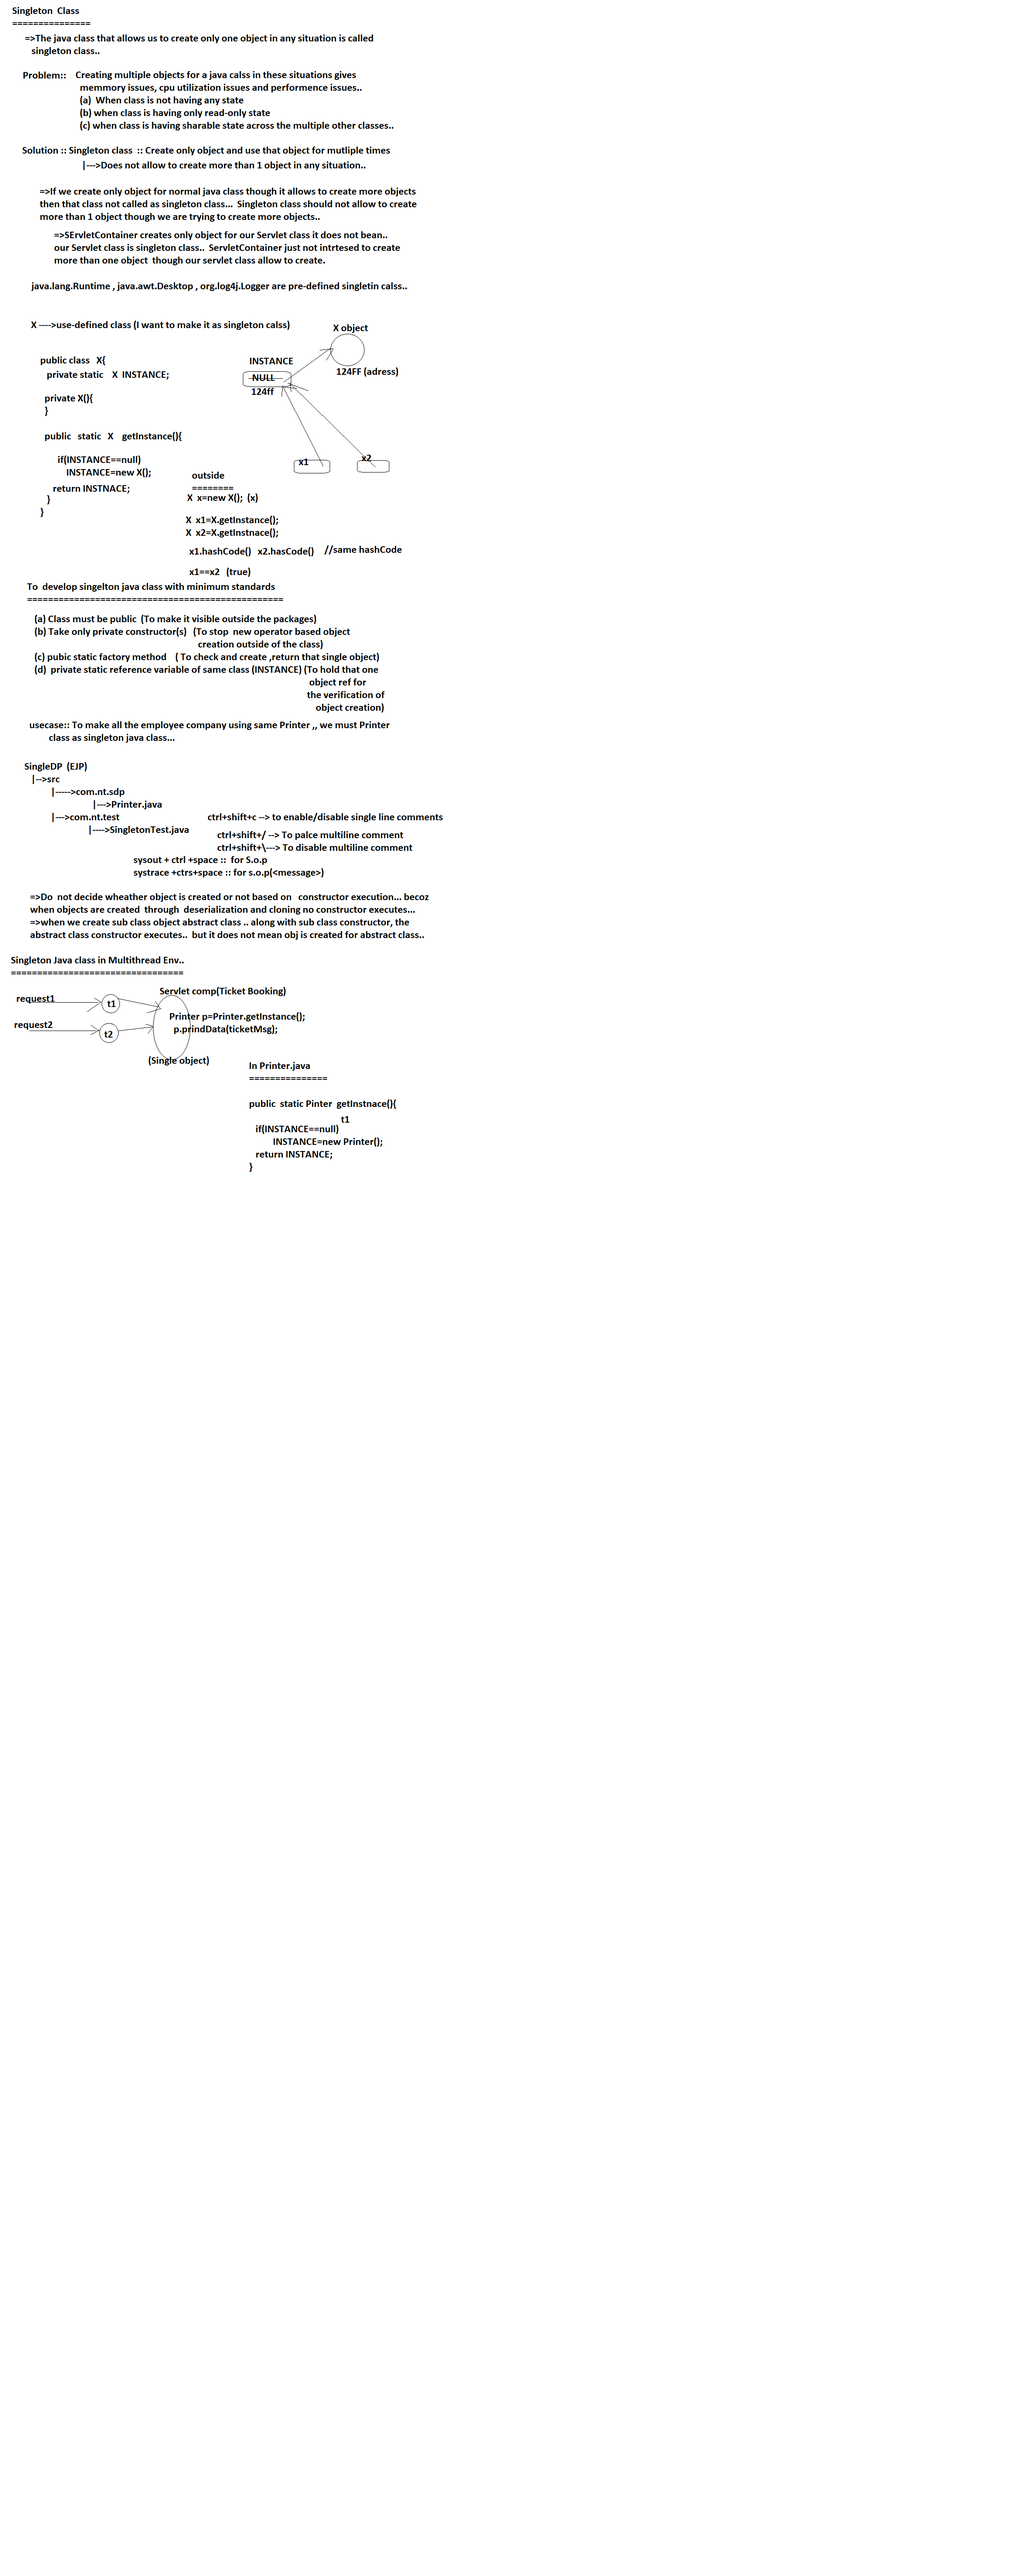
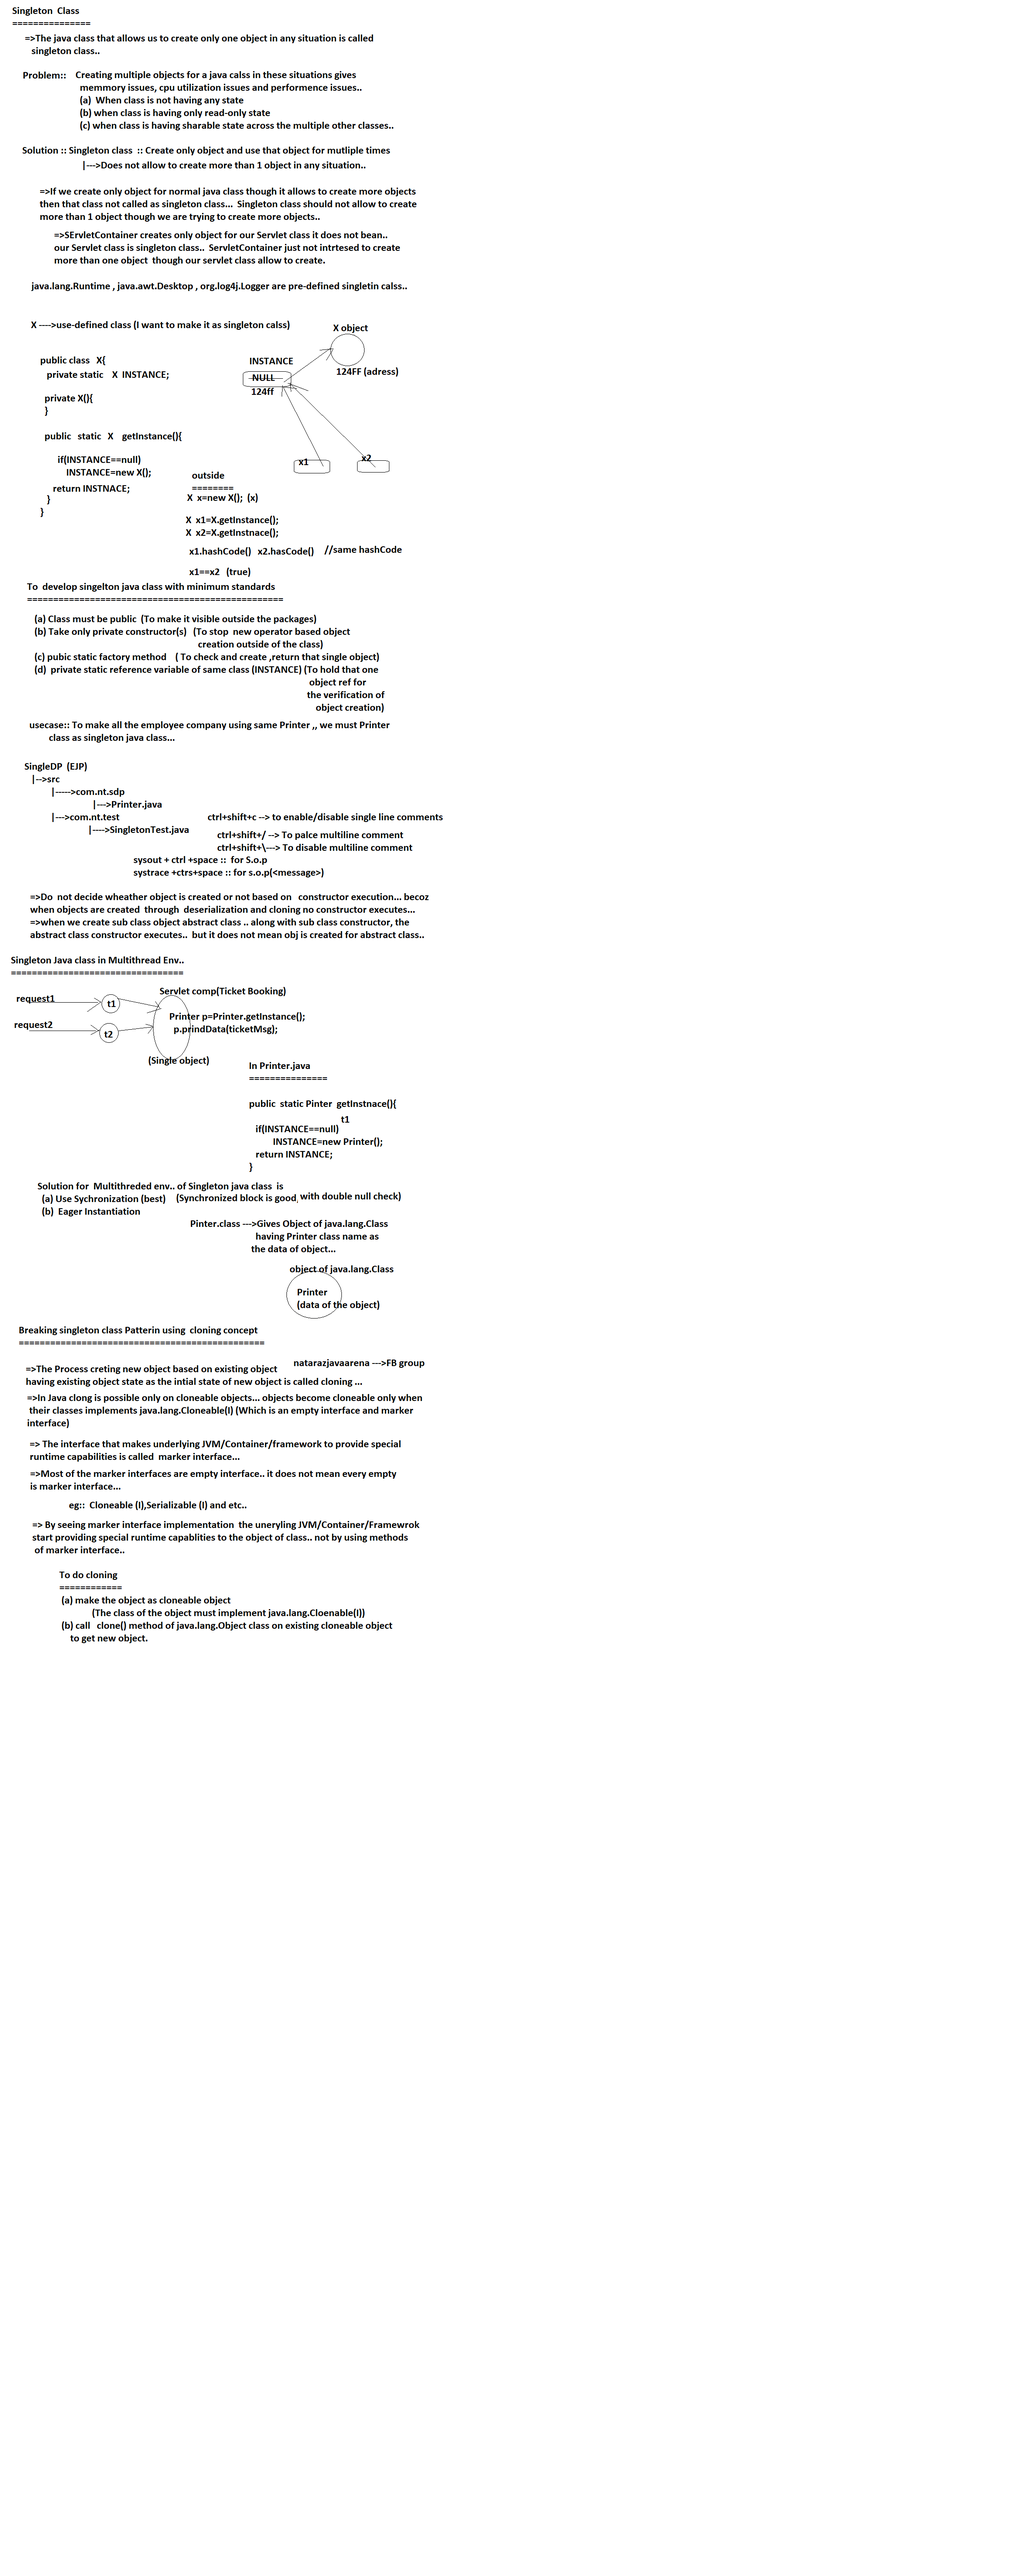
Singleton class post mortem

Changed region(s): [[0.0311, 0.4675, 0.4049, 0.6545]]

diff --git a/SIngletonPattern/src/com/rana/singleton/SingletonPrinter.java b/SIngletonPattern/src/com/rana/singleton/SingletonPrinter.java
@@ -1,6 +1,6 @@
 package com.rana.singleton;
 
-public class SingletonPrinter {
+public class SingletonPrinter implements Cloneable{
 	//example of lazy instantiation.....
 	private static SingletonPrinter INSTANCE = null;
 	
@@ -9,14 +9,36 @@ public class SingletonPrinter {
 	}
 	
 	//factory method......
-	
-	public static SingletonPrinter getInstance() {
+	//synchronized method to prevent singleton class from breaking singleton  behaviour
+	/*synchronized public static SingletonPrinter getInstance() {
 		if(INSTANCE == null)
 			INSTANCE = new SingletonPrinter();
 		return INSTANCE;
-	}
+	}*/
+	
+	//synchronized block is more preferable than method because it makes limited lines of code
+	//synchronized ..
+
+	 public static SingletonPrinter getInstance() 
+	 {
+		 //here i am using class level lock because block is there in static block
+		 if(INSTANCE == null) {
+			 synchronized (SingletonPrinter.class) {
+						if(INSTANCE == null)
+							INSTANCE = new SingletonPrinter();
+			 			}//end of block
+		 			}//end of if
+		return INSTANCE;
+	 }//end of method
+	
 	
 	public void print(String msg) {
 		System.out.println(msg);
+	}
+	
+	
+	
+	public Object doClone() throws CloneNotSupportedException {
+		return super.clone();
 	}
 }

diff --git a/SIngletonPattern/src/com/rana/test/SingletonCloningTest.java b/SIngletonPattern/src/com/rana/test/SingletonCloningTest.java
@@ -1,0 +1,21 @@
+package com.rana.test;
+
+import com.rana.singleton.SingletonPrinter;
+
+public class SingletonCloningTest {
+
+	public static void main(String[] args) {
+		SingletonPrinter sp2 =null;
+		SingletonPrinter sp = null;
+		
+		 sp = SingletonPrinter.getInstance();
+		
+		try {
+			 sp2 = (SingletonPrinter)sp.doClone();
+		}catch(CloneNotSupportedException  c) {
+			c.printStackTrace();
+		}
+		
+		System.out.println(sp.hashCode()+"  "+sp2.hashCode());
+	}
+}

diff --git a/SIngletonPattern/src/com/rana/test/ThreadSingleton.java b/SIngletonPattern/src/com/rana/test/ThreadSingleton.java
@@ -1,0 +1,15 @@
+package com.rana.test;
+
+import com.rana.singleton.SingletonPrinter;
+
+public class ThreadSingleton implements Runnable {
+
+	@Override
+	public void run() {
+		// i will create multiple thread of this code.
+		SingletonPrinter p1 = SingletonPrinter.getInstance();
+		System.out.println(p1.hashCode()+"  "+Thread.currentThread().getName());
+		
+	}
+
+}

diff --git a/SIngletonPattern/src/com/rana/test/SingletonMultiThreadingBreak.java b/SIngletonPattern/src/com/rana/test/SingletonMultiThreadingBreak.java
@@ -1,0 +1,17 @@
+package com.rana.test;
+
+public class SingletonMultiThreadingBreak {
+
+	public static void main(String[] args) {
+		
+		ThreadSingleton single = new ThreadSingleton();
+		
+		Thread t1 = new Thread(single);
+		Thread t2 = new Thread(single);
+		
+		t1.start();
+		t2.start();
+
+	}
+
+}
